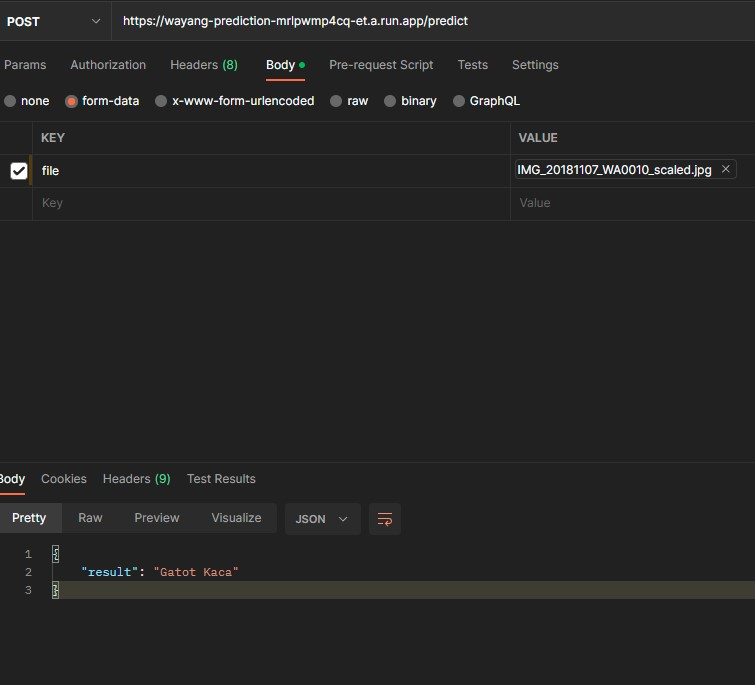
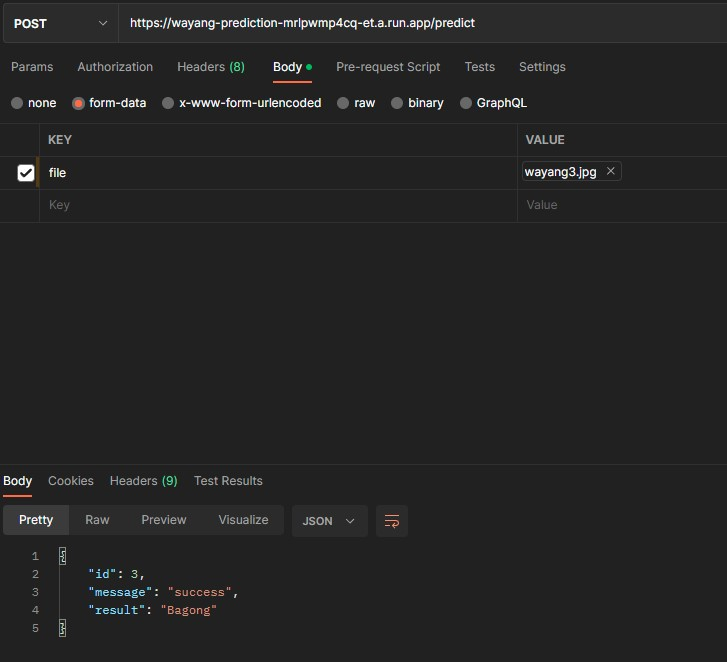
updating documentation

diff --git a/README.md b/README.md
@@ -18,8 +18,9 @@ Backend or Something that reeks of cloud computing
     > 200 OK
     ```json
     {
-        "result": "Gatot Kaca"
-
+        "id": 3,
+        "message": "success",
+        "result": "Bagong"
     }
     ```
 ![](Images/prediction.jpg)
